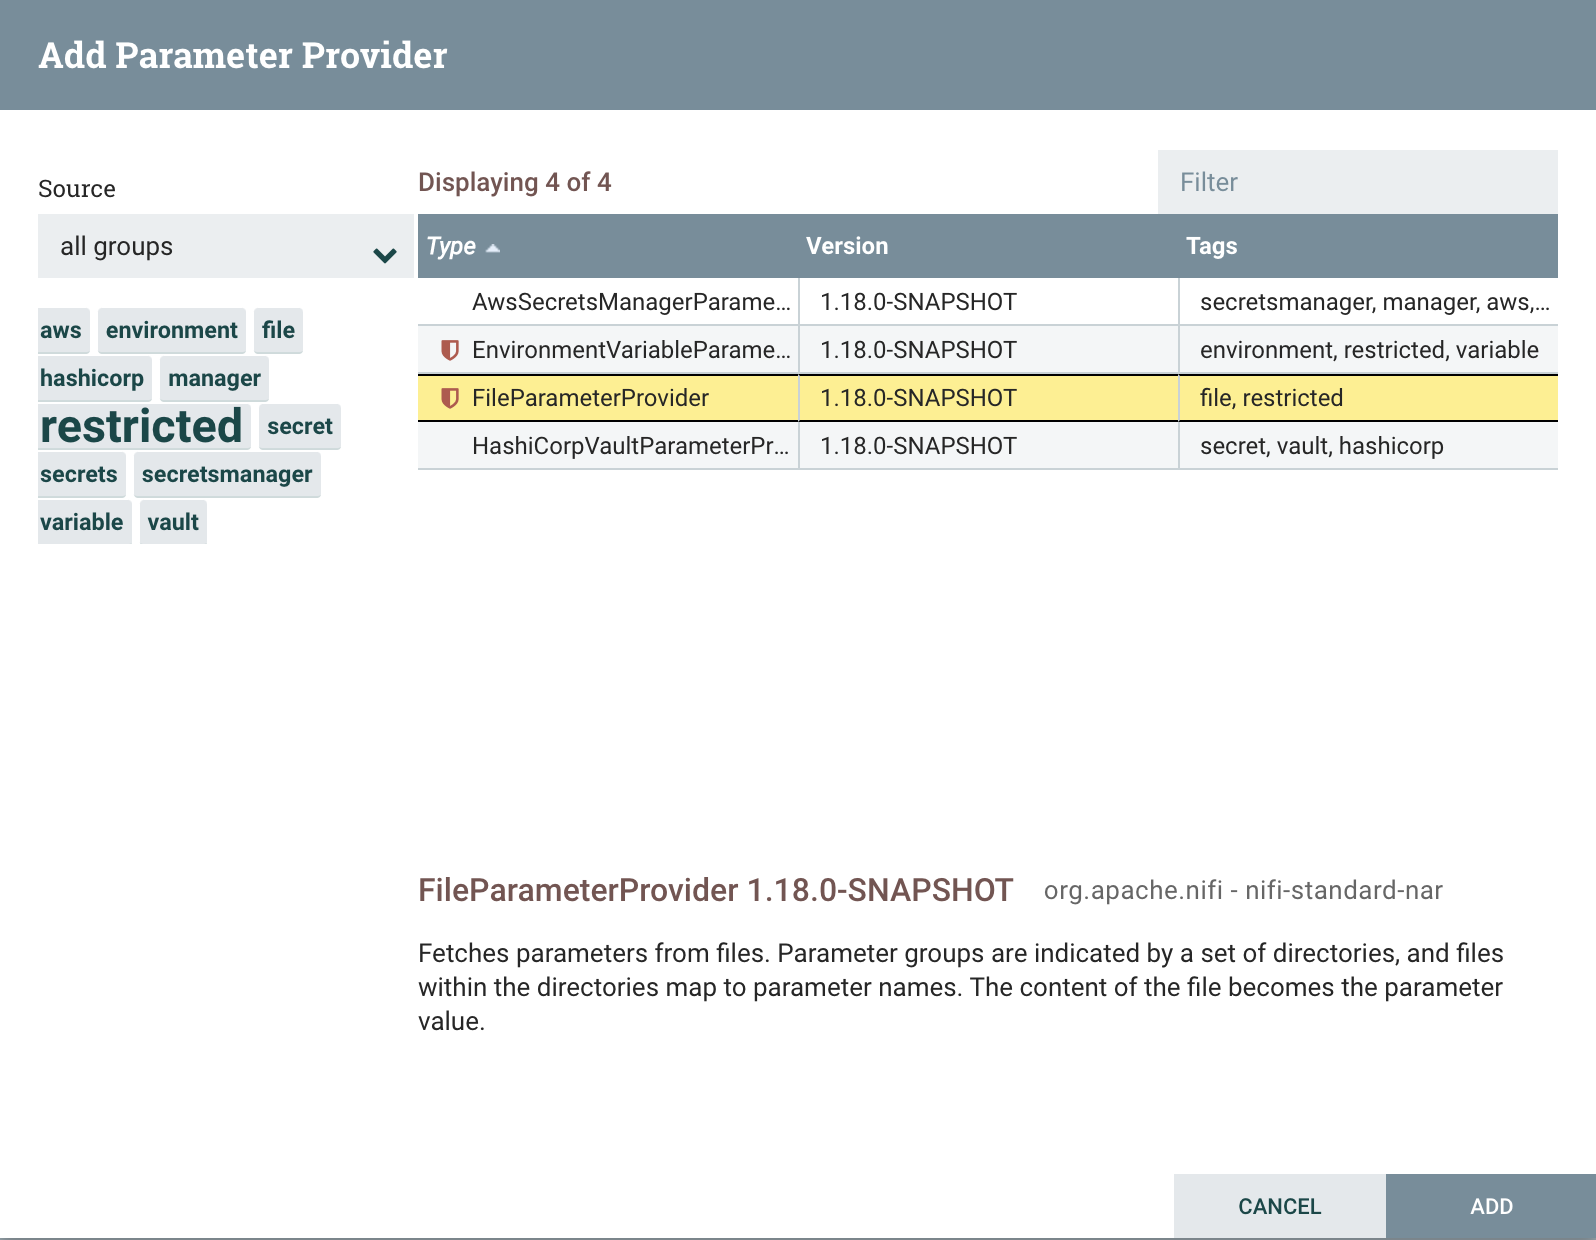
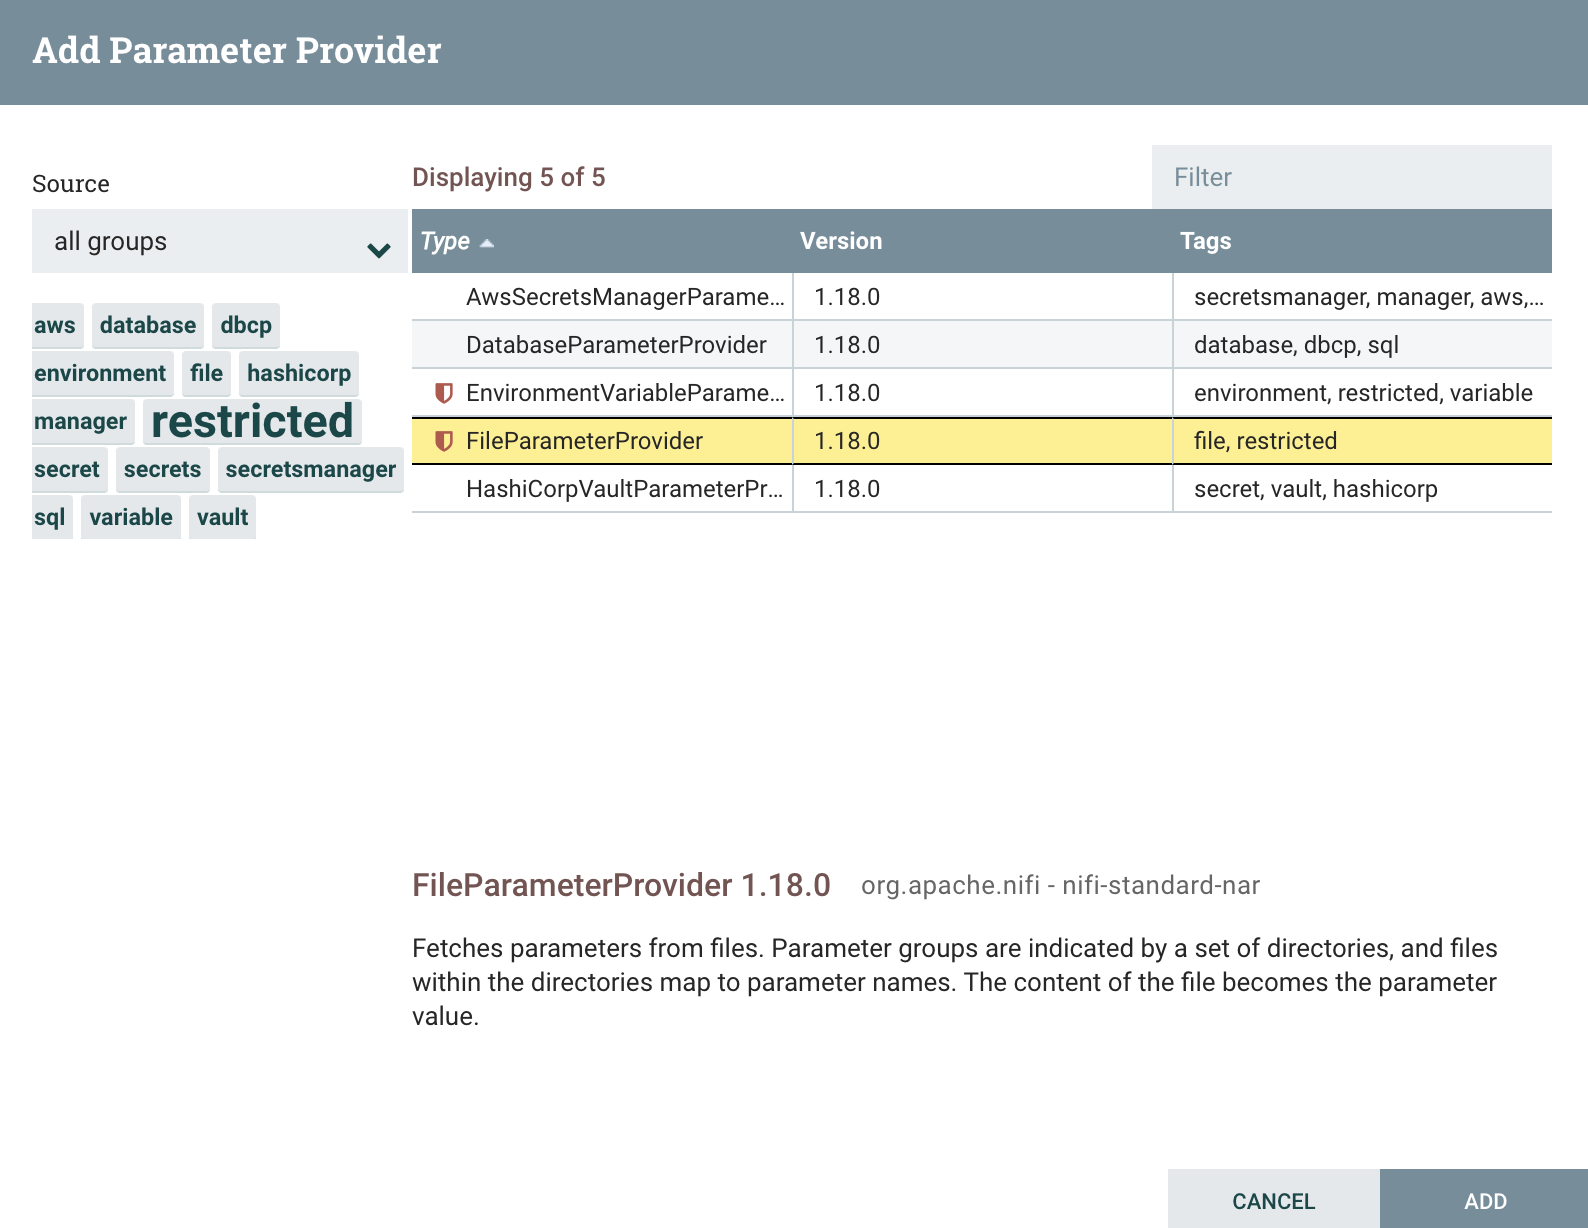
Updating for 1.18.0 screenshots

diff --git a/_posts/2022/2022-09-24-apache-nifi-1-18-0-parameter-providers.md b/_posts/2022/2022-09-24-apache-nifi-1-18-0-parameter-providers.md
@@ -157,9 +157,9 @@ flag it as "missing".  Applying the fetched parameters would leave the parameter
 parameter was no longer referenced in the flow, the next Fetch would not return `sys.other`.  This helps to essentially
 deprecate any parameters that are removed from the source without invalidating the flow when the parameters are applied.
 
-### Composed Provided Parameter ContextualSerializer
+### Composed Provided Parameter Contexts
 
-A powerful pattern, then, is to create separate Parameter Providers as necessary, and simply compose their created Parameter Contexts through
+A powerful pattern, then, is to create separate Parameter Providers for different sources, and then simply compose their created Parameter Contexts through
 inheritance.  This allows sensitive parameters to originate from a secrets manager, like HashiCorp Vault, and
 non-sensitive parameters to originate from other sources like Environment Variables or the filesystem.  In the following
 simple example, I created an EnvironmentVariableParameterProvider, applied the parameters as non-sensitive, and then

diff --git a/_posts/2022/2022-09-25-apache-nifi-1-18-0-hashicorp-vault-parameter-provider.md b/_posts/2022/2022-09-25-apache-nifi-1-18-0-hashicorp-vault-parameter-provider.md
@@ -127,7 +127,7 @@ Apply the changes, and then click the lightning bolt button to enable the servic
 
 <img src="{{ BASE_PATH }}/assets/images/nifi-parameter-providers/08-enable-service.png" class="img-responsive" width="80%" height="80%">
 
-Click the `HashiCorpVaultParameterProvider` on this screen to go back to the provider.  Edit the provider so we can inspect its other
+Close this dialog and then return to the Parameter Providers tab. Edit the provider so we can inspect its other
 properties.  Notice that the 'Key/Value Path' defaults to `kv`, which is the same path we used above when enabling the secrets engine in Vault.
 This is where you would change the path if you used a different one.  Also notice the 'Secret Name Pattern' property.  This allows us to
 limit which secrets in this Vault path are pulled in as parameters, which can be useful if more than just the ones we want are present.  To demonstrate
